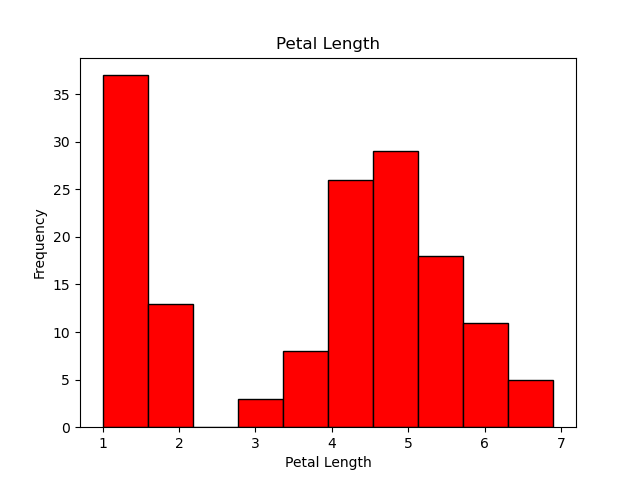
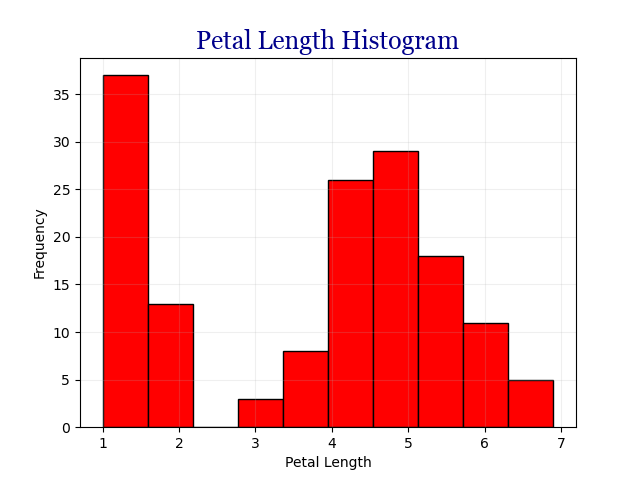
Code improvement. Alternative solution to avoid repetitions.

diff --git a/analysis.py b/analysis.py
@@ -73,89 +73,55 @@ with open ("Iris Dataset Variables Analysis.txt", "w") as f:
 
 # 2. HISTOGRAM PLOT OF EACH VARIABLE TO PNG FILES
 
-# create a histogram plot of Sepal Length
-plt.hist(sl, color='blue', edgecolor='black');
-plt.title('Sepal Length')
-plt.xlabel('Sepal Length')
-plt.ylabel('Frequency')
-plt.savefig("Sepal Length Histogram.png")
-plt.show()
+def histogram_creator (x, title = "", xlab = "", ylab = "",  color = "blue", edgecolor = "black", grid = False, save = False, **kwargs):
+    plt.xlabel(f"{xlab}")
+    plt.ylabel(f"{ylab}")
+    title_font= {"family": "Georgia", "color" : "darkblue", "size" : 18}
+    plt.title (f"{title}", fontdict= title_font)
+    plt.hist(x, edgecolor = edgecolor, color = color, **kwargs)
+    if grid == True:
+        plt.grid(alpha = 0.2)
+    if save == True:
+        plt.savefig(f"{title}.png")
+    plt.show()
 
-# create a histogram plot of Sepal Width
-plt.hist(sw, color='green', edgecolor='black');
-plt.title('Sepal Width')
-plt.xlabel('Sepal Width')
-plt.ylabel('Frequency')
-plt.savefig("Sepal Width Histogram.png")
-plt.show()
-
-# create a histogram plot of Petal Length
-plt.hist(pl, color='red', edgecolor='black');
-plt.title('Petal Length')
-plt.xlabel('Petal Length')
-plt.ylabel('Frequency')
-plt.savefig("Petal Length Histogram.png")
-plt.show()
-
-# create a histogram plot of Petal Width
-plt.hist(pw, color='purple', edgecolor='black');
-plt.title('Petal Width')
-plt.xlabel('Petal Width')
-plt.ylabel('Frequency')
-plt.savefig("Petal Width Histogram.png")
-plt.show()
+histogram_creator(sl, title = "Sepal Length Histogram", xlab = "Sepal Length", ylab= "Frequency", grid = True, save = True)
+histogram_creator(sw, title = "Sepal Width Histogram", xlab = "Sepal Width", ylab = "Frequency", color = "green", grid = True, save = True)
+histogram_creator(pl, title = "Petal Length Histogram", xlab = "Petal Length", ylab = "Frequency", color = "red", grid = True, save = True)
+histogram_creator(pw, title = "Petal Width Histogram", xlab = "Petal Width", ylab = "Frequency", color = "orange", grid = True, save = True)
 
 
 # 3. SCATTER PLOT OF EACH PAIR OF VARIABLES
 
-# Scatterplot of Sepal Length and Sepal Width
-ax, fig = plt.subplots()
-fig.scatter(sl, sw, color = "red")
-fig.set_xlabel("Sepal Length (cm)")
-fig.set_ylabel("Sepal Width (cm)")
-fig.set_title("Sepal Length vs Sepal Width")
-plt.show()
+# scatterplots of each pair of variable highlighting the three species in different colors
+species = iris["target"] 
 
-# Scatterplot of Sepal Length and Petal Length
-ax, fig = plt.subplots()
-fig.scatter(sl, pl, color = "blue")
-fig.set_xlabel("Sepal Length (cm)")
-fig.set_ylabel("Petal Length (cm)")
-fig.set_title("Sepal Length vs Petal Length")
-plt.show()
+def scatterplot_creator (x, y, xlab = "", ylab = "", c = "red", title = "", grid = False, save = False, fitline = False, **kwargs):
+    plt.scatter(x, y , c = c, **kwargs)
+    plt.xlabel(f"{xlab}")
+    plt.ylabel(f"{ylab}")
+    title_font= {"family": "Georgia", "color" : "darkblue", "size" : 18}
+    plt.title(f"{title}", fontdict= title_font)
+    if grid == True:
+        plt.grid(alpha = 0.2)
+    if save == True:
+        plt.savefig(f"{title}.png")
+    if fitline == True:
+        m, c = np.polyfit(x, y, deg = 1)
+        plt.plot(x, m*x + c, color = "red")
+        plt.legend (["Data", "Line of Best Fit"])
+    plt.show()
 
-# Scatterplot of Sepal Length and Petal Width
-ax, fig = plt.subplots()
-fig.scatter(sl, pw, color = "green")
-fig.set_xlabel("Sepal Length (cm)")
-fig.set_ylabel("Petal Width (cm)")
-fig.set_title("Sepal Length vs Petal Width")
-plt.show()
-
-# Scatterplot of Petal Length and Sepal Width
-ax, fig = plt.subplots()
-fig.scatter(pl, sw, color = "orange")
-fig.set_xlabel("Petal Length (cm)")
-fig.set_ylabel("Sepal Width (cm)")
-fig.set_title("Petal Length vs Sepal Width")
-plt.show()
-
-# Scatterplot of Petal Width and Sepal Width
-ax, fig = plt.subplots()
-fig.scatter(pw, sw, color = "purple")
-fig.set_xlabel("Petal Width (cm)")
-fig.set_ylabel("Sepal Width (cm)")
-fig.set_title("Petal Width vs Sepal Width")
-plt.show()
-
-# Scatterplot of Petal Length and Petal Width
-ax, fig = plt.subplots()
-fig.scatter(pl, pw, color = "pink")
-fig.set_xlabel("Petal Length (cm)")
-fig.set_ylabel("Petal Width (cm)")
-fig.set_title("Petal Length vs Petal Width")
-plt.show()
+scatterplot_creator (sl, sw, xlab= "Sepal Length (cm)", ylab= "Sepal Width (cm)", title= "Sepal Length vs Sepal Width", c = species)
+scatterplot_creator(sl, pl, xlab= "Sepal Length (cm)", ylab= "Petal Length (cm)", title= "Sepal Length vs Petal Length", c= species)
+scatterplot_creator(sl, pw, xlab= "Sepal Length (cm)", ylab= "Petal Width (cm)", title= "Sepal Length vs Sepal Width", c= species)
+scatterplot_creator(pl, sw, xlab= "Petal Length (cm)", ylab= "Sepal Width (cm)", title= "Petal Length vs Sepal Width", c= species)
+scatterplot_creator(pw, sw, xlab= "Petal Width", ylab= "Sepal Width (cm)", title= "Petal Width vs Sepal Width", c= species)
+scatterplot_creator(pl, pw, xlab= "Petal Length (cm)", ylab= "Petal Width (cm)", title= "Petal Length vs Petal Width", c= species)
 
 
 # 4. ANY OTHER APPROPRIATE ANALYSIS
+
+
+
 
